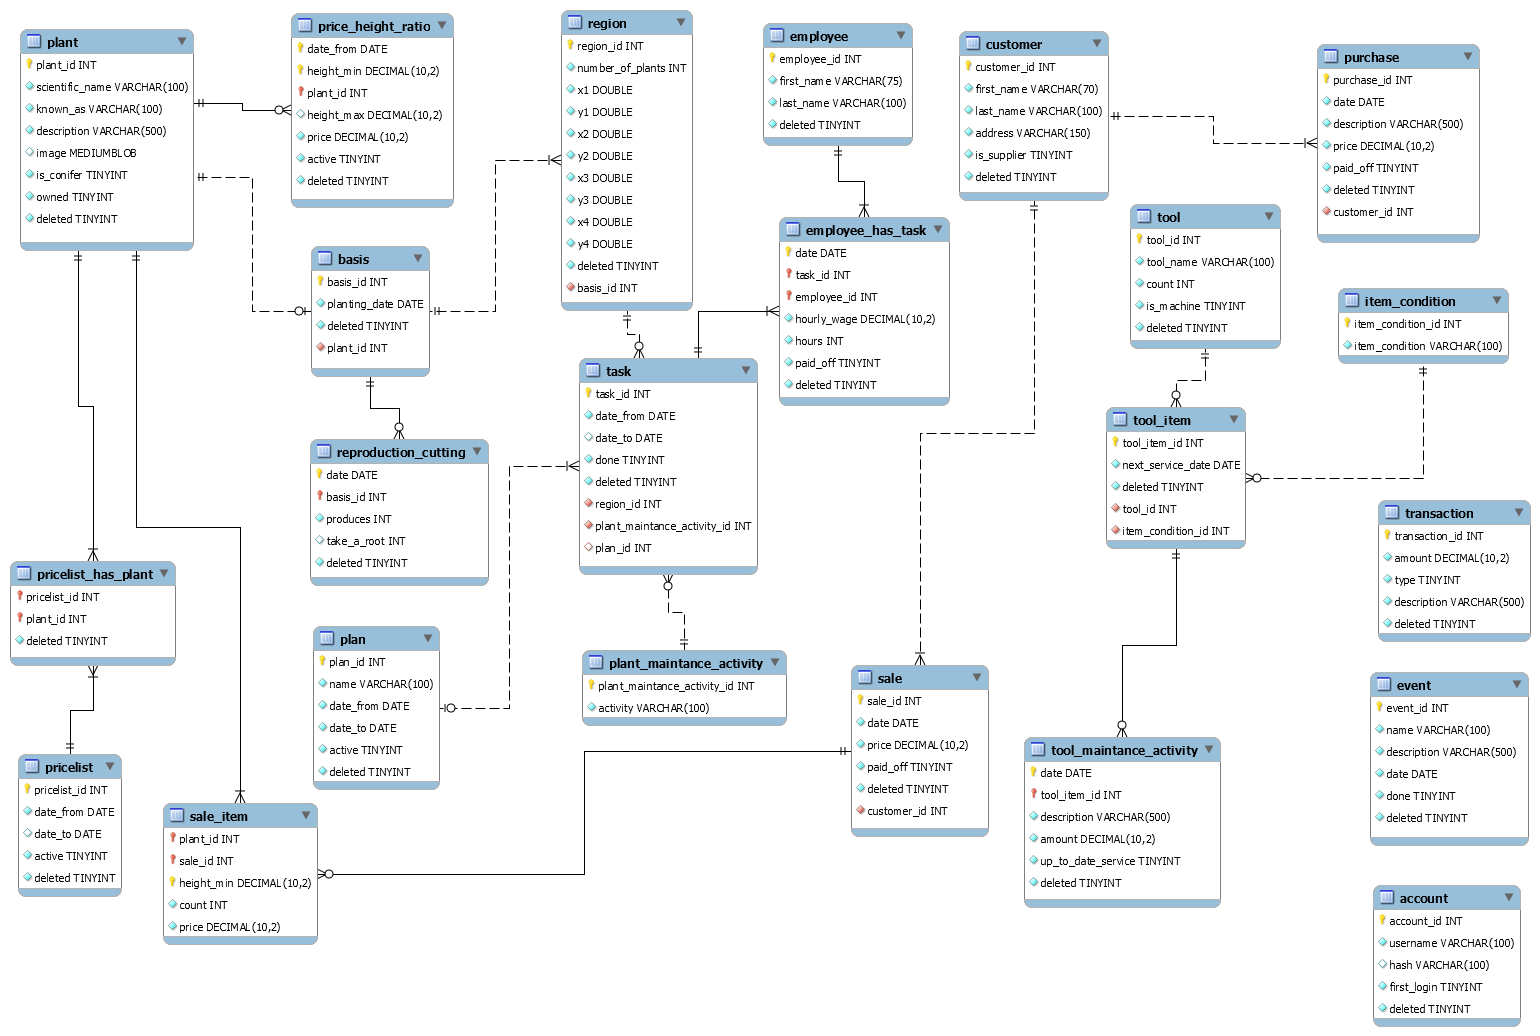
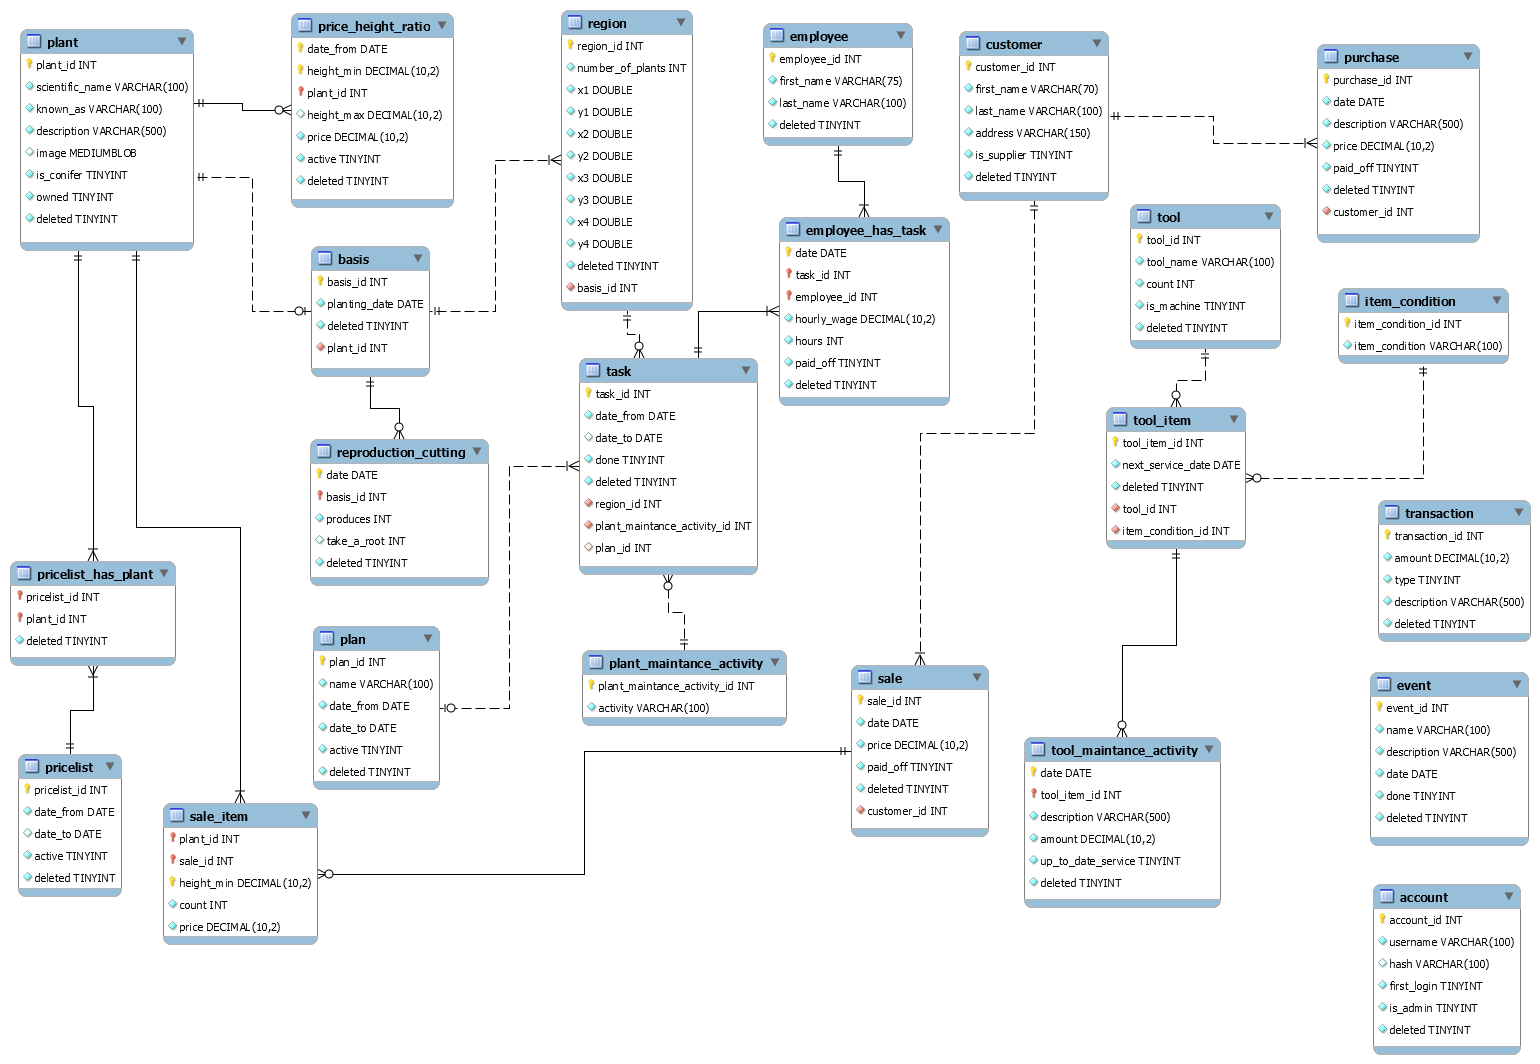
Uvedena mogucnost admina

diff --git a/src/org/unibl/etf/dao/implementation/AccountDAOImpl.java b/src/org/unibl/etf/dao/implementation/AccountDAOImpl.java
@@ -26,6 +26,7 @@ public class AccountDAOImpl implements AccountDAO{
 		stdColumns.add("username");
 		stdColumns.add("hash");
 		stdColumns.add("first_login");
+		stdColumns.add("is_admin");
 		stdColumns.add("deleted");
 		allColumns.addAll(pkColumns);
 		allColumns.addAll(stdColumns);
@@ -336,6 +337,35 @@ public class AccountDAOImpl implements AccountDAO{
 				ps = getConn().prepareStatement(
 						DBUtil.select(tableName, allColumns, Arrays.asList(new String[] { "first_login" })));
 				DBUtil.bind(ps, 1, firstLogin);
+			}
+
+			rs = ps.executeQuery();
+
+			while (rs.next())
+				ret.add(fromResultSet(rs));
+		} catch (SQLException e) {
+			e.printStackTrace();
+		} finally {
+			DBUtil.close(ps, rs, conn);
+		}
+
+		return ret;
+	}
+	
+	@Override
+	public List<Account> getByIsAdmin(Boolean isAdmin) {
+		PreparedStatement ps = null;
+		ResultSet rs = null;
+		List<Account> ret = new ArrayList<>();
+
+		try {
+			if (null == isAdmin) {
+				ps = getConn().prepareStatement(
+						DBUtil.selectNull(tableName, allColumns, Arrays.asList(new String[] { "is_admin" })));
+			} else {
+				ps = getConn().prepareStatement(
+						DBUtil.select(tableName, allColumns, Arrays.asList(new String[] { "is_admin" })));
+				DBUtil.bind(ps, 1, isAdmin);
 			}
 
 			rs = ps.executeQuery();

diff --git a/src/org/unibl/etf/dto/Account.java b/src/org/unibl/etf/dto/Account.java
@@ -6,6 +6,7 @@ public class Account {
 	private String username;
 	private String hash;
 	private Boolean firstLogin;
+	private Boolean isAdmin;
 	private Boolean deleted;
 	
 	public Integer getAccountId() {
@@ -40,6 +41,14 @@ public class Account {
 		this.firstLogin = firstLogin;
 	}
 	
+	public Boolean getIsAdmin() {
+		return isAdmin;
+	}
+
+	public void setIsAdmin(Boolean isAdmin) {
+		this.isAdmin = isAdmin;
+	}
+
 	public Boolean getDeleted() {
 		return deleted;
 	}

diff --git a/src/org/unibl/etf/dao/interfaces/AccountDAO.java b/src/org/unibl/etf/dao/interfaces/AccountDAO.java
@@ -30,5 +30,7 @@ public interface AccountDAO {
 
 		public List<Account> getByFirstLogin(Boolean firstLogin);
 		
+		public List<Account> getByIsAdmin(Boolean isAdmin);
+		
 		public List<Account> getByDeleted(Boolean deleted);
 }
